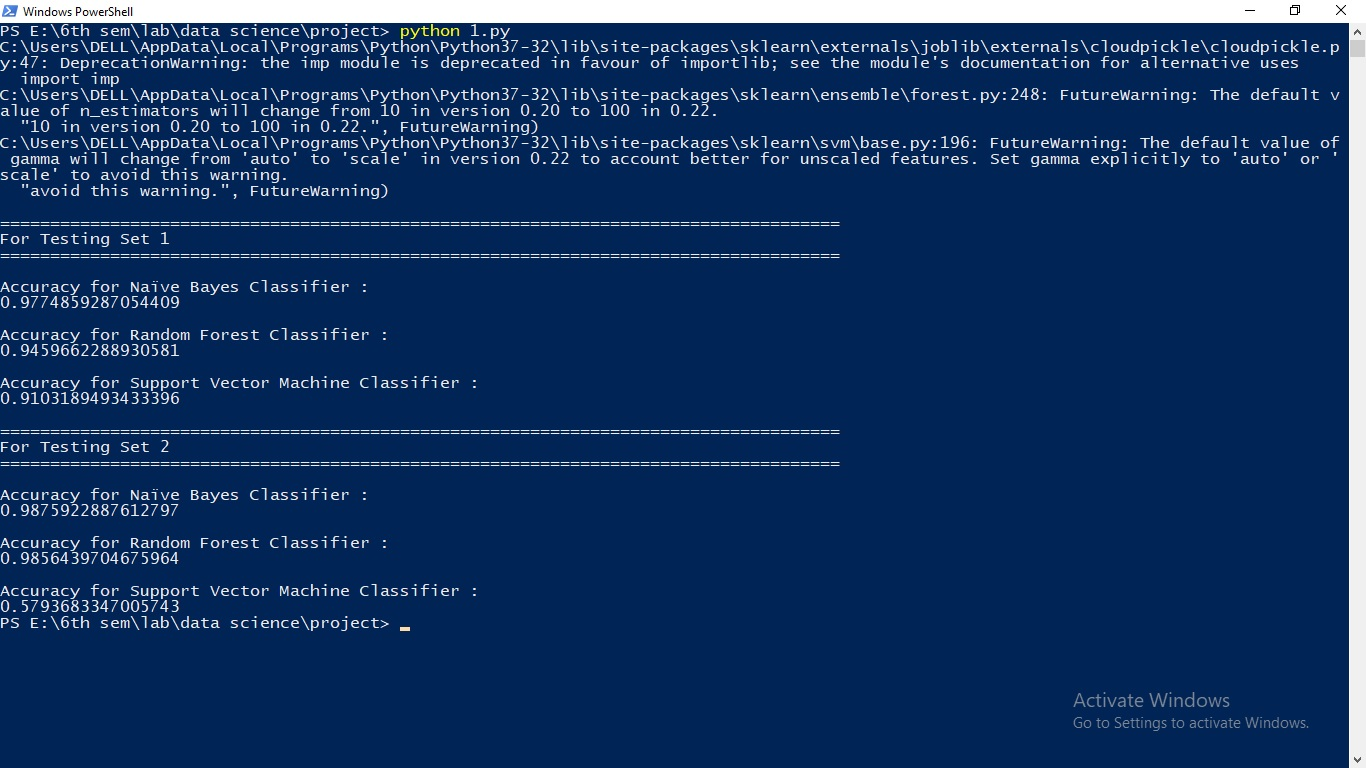
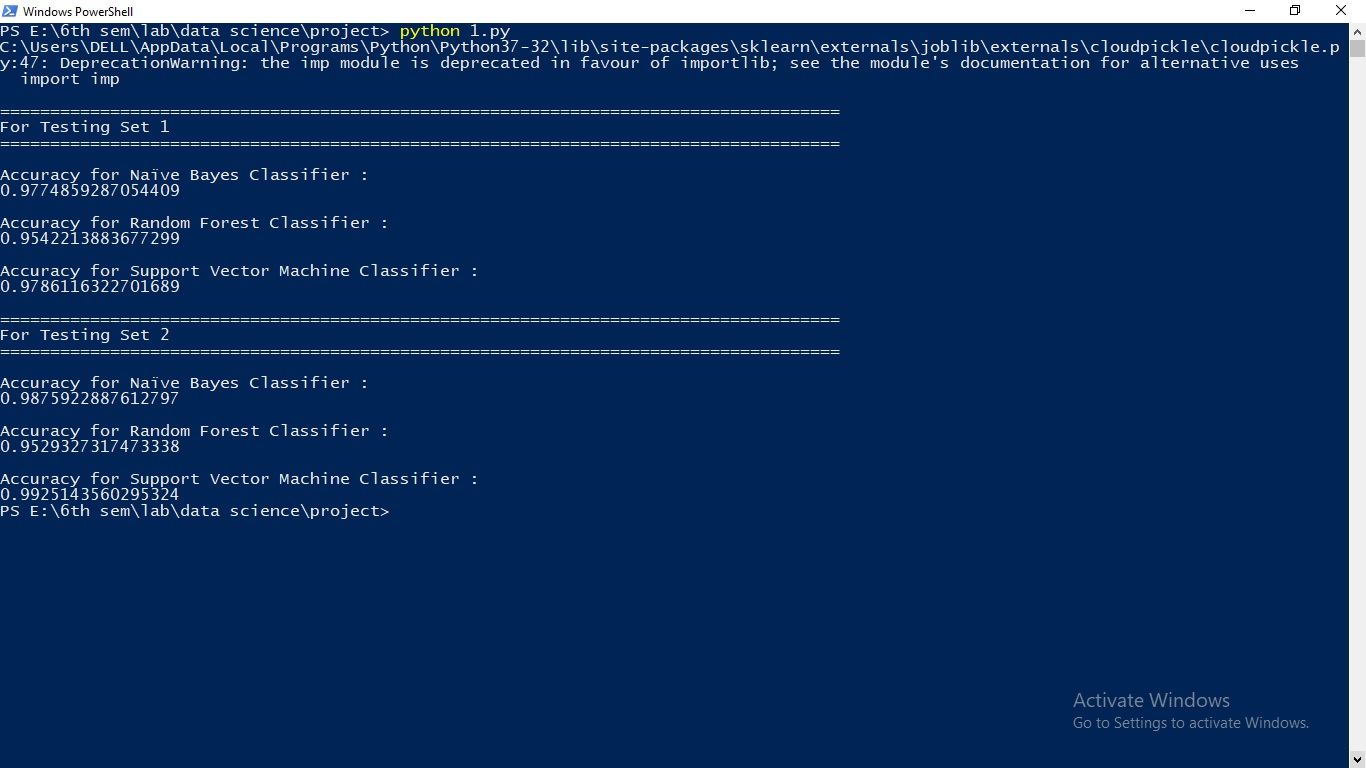
better results

diff --git a/1.py b/1.py
@@ -23,10 +23,10 @@ with open('datatraining.txt') as csvfile:
 nb = GaussianNB()
 nb.fit(train_data, train_target)
 
-rfc = RandomForestClassifier()
+rfc = RandomForestClassifier(n_estimators=70, oob_score=True, n_jobs=-1, random_state=101, max_features=None, min_samples_leaf=30)
 rfc.fit(train_data, train_target)
 
-svm = SVC()
+svm = SVC(kernel="linear", C=0.025, random_state=101)
 svm.fit(train_data, train_target)
 
 #####for testing set 1#####
